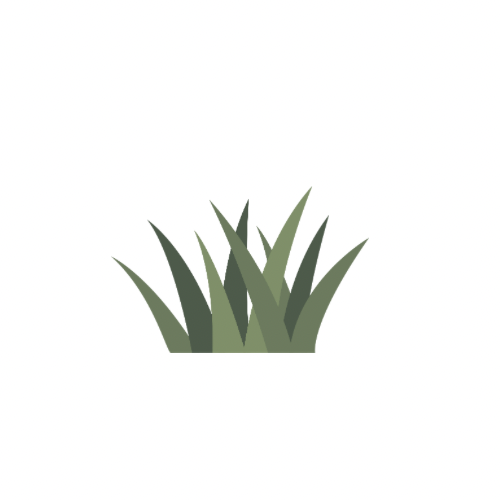
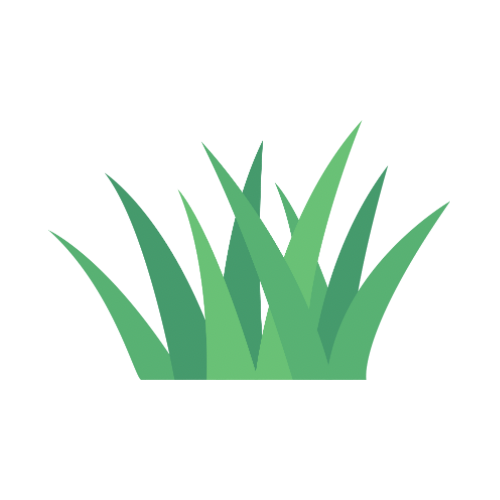
cool

Changed region(s): [[0.12, 0.24, 0.9, 0.78], [0.09, 0.45, 0.12, 0.48]]

diff --git a/Homework 11/js/sketch.js b/Homework 11/js/sketch.js
@@ -29,6 +29,7 @@ let gameOver = false;
 let gameWin = false;
 var bites = 50;
 const borderThickness = 15; // thickness of edge borders
+let forestBackground;
 
 
 
@@ -50,6 +51,7 @@ function preload() {
     logredStrings = loadStrings('txtfiles/logred.txt');
     grassStrings = loadStrings('txtfiles/grass.txt');
     attackStrings = loadStrings('txtfiles/attack2.txt');
+    grassStrings = loadStrings('txtfiles/grass.txt');
     //img = loadImage('trees/PineTree 01.png');
     //img2 = loadImage('assets/log.png');
 
@@ -64,6 +66,7 @@ function setup() {
     myAnimation.loadAnimation('idle', idleStrings);
     myAnimation.loadAnimation('run', runStrings);
     myAnimation.loadAnimation('attack', attackStrings);
+    myAnimation.loadAnimation('grass', grassStrings);
 
     // Create food objects
     /*  for (let i = 0; i < 40; i++) {
@@ -75,14 +78,17 @@ function setup() {
           */
 
     let treeW = 40; // your tree width
-    let treeH = 40; // your tree height
-
+    let treeH = 50; // your tree height
+    let x = random(treeW / 1, width - treeW / 1);
+    let y = random(treeH / 1, height - treeH / 1);
     for (let i = 0; i < 14; i++) {
-        let x = random(treeW / 1, width - treeW / 1);
-        let y = random(treeH / 1, height - treeH / 1);
+         x = random(treeW / 1, width - treeW / 1);
+     y = random(treeH / 1, height - treeH / 1);
 
         let myTree = new tree(x, y, treeW, treeH);
         treeArray.push(myTree);
+        let myGrass = new grass(x + 17, y + treeH, 40, 40);
+        grassArray.push(myGrass);
     }
 
 
@@ -99,14 +105,24 @@ function setup() {
         let myLog = new logred(random(50, width - 50), random(50, height - 50), 40, 40);
         logredArray.push(myLog);
     }
-    /*  // Create grass objects
-      for (let i = 0; i < grassStrings.length; i++) {
+    
+   //  // Create grass objects
+     // for (let i = 0; i < grassStrings.length; i++) {
         
-        let myGrass = new grass(random(50, width - 50), random(50, height - 50), 40, 40);
-        grassArray.push(myGrass);
-    }
-      */
-
+      //  let myGrass = new grass(random(50, width - 50), random(50, height - 50), 40, 40);
+       // grassArray.push(myGrass);
+   // }
+     
+   forestBackground = createGraphics(width, height);
+   for (let x = 0; x < width; x += 40) {
+       for (let y = 0; y < height; y += 40) {
+           let shade = (random(30, 80));
+           forestBackground.noStroke();
+           //forestBackground.fill(shade, random(60, 120), shade / 2);
+           forestBackground.rect(x, y, 60, 60);
+       }
+   }
+   
 }
 
 function mousePressed() {
@@ -119,27 +135,35 @@ function mousePressed() {
 
 // Draw function
 function draw() {
-    background(40, 100, 10);
- // DRAW THICK EDGE BORDERS (solid rectangles)
-noStroke();
-fill(0); // black border, or change color as needed
+    
+    // DRAW THICK EDGE BORDERS (solid rectangles)
+    noStroke();
+    fill(0); // black border, or change color as needed
 
-// Top border
-rect(0, 0, width, borderThickness);
+    // Top border
+    rect(0, 0, width, borderThickness);
 
-// Bottom border
-rect(0, height - borderThickness, width, borderThickness);
+    // Bottom border
+    rect(0, height - borderThickness, width, borderThickness);
 
-// Left border
-rect(0, 0, borderThickness, height);
+    // Left border
+    rect(0, 0, borderThickness, height);
 
-// Right border
-rect(width - borderThickness, 0, borderThickness, height);
+    // Right border
+    rect(width - borderThickness, 0, borderThickness, height);
 
+ // Draw forest floor texture
+for (let x = 0; x < width; x += 40) {
+    for (let y = 0; y < height; y += 40) {
+        let shade = (30, 80); // range of foresty greens/browns
+        fill(shade, (60, 120), shade / 2);
+        noStroke();
+        rect(x, y, 40, 40);
+ 
+        }
 
-    for (let i = 0; i < logredArray.length; i++) {
-        logredArray[i].update(myAnimation.currentAnimation.position.x, myAnimation.currentAnimation.position.y);
-    }
+}
+
 
     updateHealth(health, maxHealth);
     collidesWithTree();
@@ -215,8 +239,8 @@ rect(width - borderThickness, 0, borderThickness, height);
                         score++;
                         break;
                     }
-                    if (!cheer.isPlaying()) {
-                        cheer.play(); // log breaking sound
+                    if (!wahoo.isPlaying()) {
+                        wahoo.play(); // log breaking sound
                     }
                     ////////////////////////////////
 
@@ -277,37 +301,17 @@ rect(width - borderThickness, 0, borderThickness, height);
         }
     }
 
-    // Display UI
-    textSize(20);
-    fill(255, 215, 0);
-    text("Score: " + score, 405, 50);
-    //text("/" + scoreMax, 480, 30);
-    text("Time Left: " + timeLeft + "s", width - 500, 50);
-    textSize(40);
-    fill(255, 215, 0);
-    text("Feed the Dino!", width / 2 - 125, height / 10);
-    textSize(30);
-    text("Don't let them catch you!", width / 2 - 116, height / 4.9);
-
     // Check win condition
     if (score >= 8) {
         textSize(50);
         fill(255, 215, 0);
         text("YOU WIN!", width / 2 - 125, height / 2);
-        //////////////////////////
+        cheer.play();
+        cheer.setVolume(2);
         noLoop();
-        if (d < 30 && !gameWin) {
-            textSize(50);
-            fill(255, 0, 0);
-            text("You Big Lose!", width / 2 - 150, height / 2);
-            cheer.play();
-            cheer.setVolume(2);
-            noLoop();
-            mySound.stop();
-            gameWin = true;
-        }
+
     }
-    ////////////////////////
+
     // Check time left
     let timePassed = int((millis() - startTime) / 1000);
     timeLeft = max(countdown - timePassed, 0);
@@ -323,8 +327,8 @@ rect(width - borderThickness, 0, borderThickness, height);
         mySound.stop();
     }
 
-    // At the bottom of draw()
-    for (let i = particles.length - 1; i >= 0; i--) {
+      // At the bottom of draw()
+      for (let i = particles.length - 1; i >= 0; i--) {
         particles[i].update();
         particles[i].show();
 
@@ -333,6 +337,16 @@ rect(width - borderThickness, 0, borderThickness, height);
         }
     }
 
+    // ✅ TEXT SECTION LAST so it draws on top
+    textSize(20);
+    fill(255, 215, 0);
+    text("Score: " + score, 405, 50);
+    text("Time Left: " + timeLeft + "s", width - 500, 50);
+
+    textSize(30);
+    fill(255, 215, 0);
+    text("Stomp on the sandwiches, and avoid the orange bois!", width / 2 - 320, height / 10);
+    
 }//end of draw
 function findSafeSpawn() {
     let x, y;

diff --git a/Homework 11/js/grass.js b/Homework 11/js/grass.js
@@ -14,8 +14,9 @@ class grass {
     // this creates the initial sprite
     createAnimation() {
       this.currentAnimation = createSprite(this.x, this.y, 'static');
-      this.currentAnimation.img = 'grass/grass.png';
+      this.currentAnimation.img = 'grass/grass01.png';
       this.currentAnimation.scale = .14;
+
       //hit box//Needs particles
      this.currentAnimation.width = 12;
      this.currentAnimation.height = 12;

diff --git a/Homework 11/Homework 11.html b/Homework 11/Homework 11.html
@@ -20,7 +20,7 @@
     <script src="js/log.js"></script>
     <script src="js/logred.js"></script>
     <script src="js/particle.js"></script>
-    
+    <script src="js/grass.js"></script>
 
     
     
